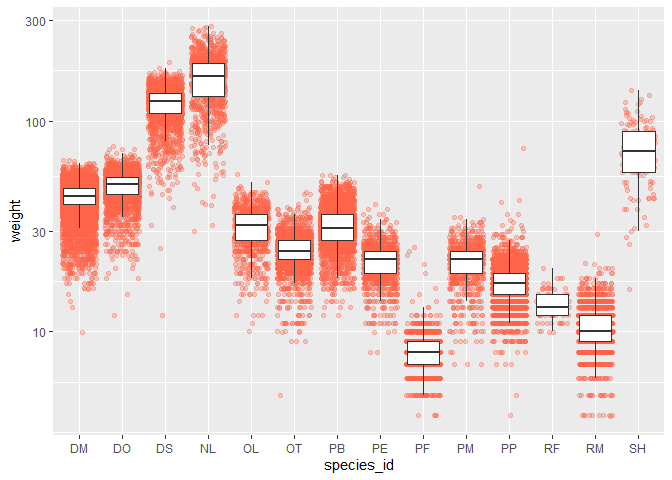
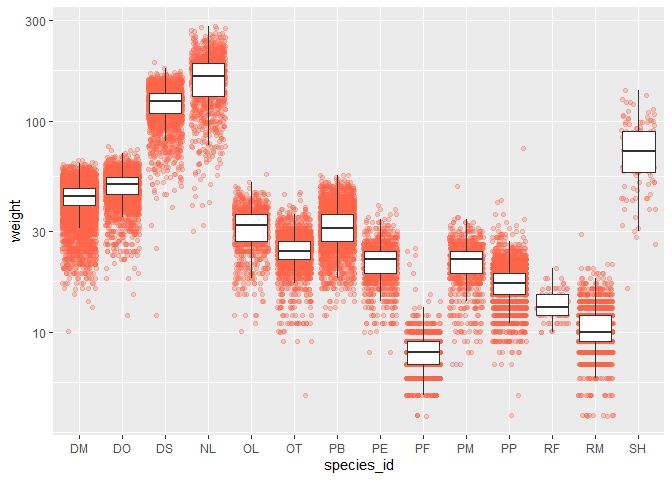
correct data formatting to start ep 04

diff --git a/Episodes/04-visualization-ggplot2.md b/Episodes/04-visualization-ggplot2.md
@@ -27,11 +27,23 @@ the **`tidyverse`** package.
 library(tidyverse)
 ```
 
-If not still in the workspace, load the data we saved in the previous
-lesson.
+Reload the survey data and format it for easier plotting
 
 ``` r
-surveys_complete <- read_csv("data/surveys_complete.csv")
+surveys <- read_csv("data_raw/portal_data_joined.csv")
+surveys_complete <- surveys %>%
+  filter(!is.na(weight),           # remove missing weight
+         !is.na(hindfoot_length),  # remove missing hindfoot_length
+         !is.na(sex))                # remove missing sex
+
+## Extract the most common species_id
+species_counts <- surveys_complete %>%
+  count(species_id) %>%
+  filter(n >= 50)
+
+## Only keep the most common species
+surveys_complete <- surveys_complete %>%
+  filter(species_id %in% species_counts$species_id)
 ```
 
 ## Plotting with **`ggplot2`**
